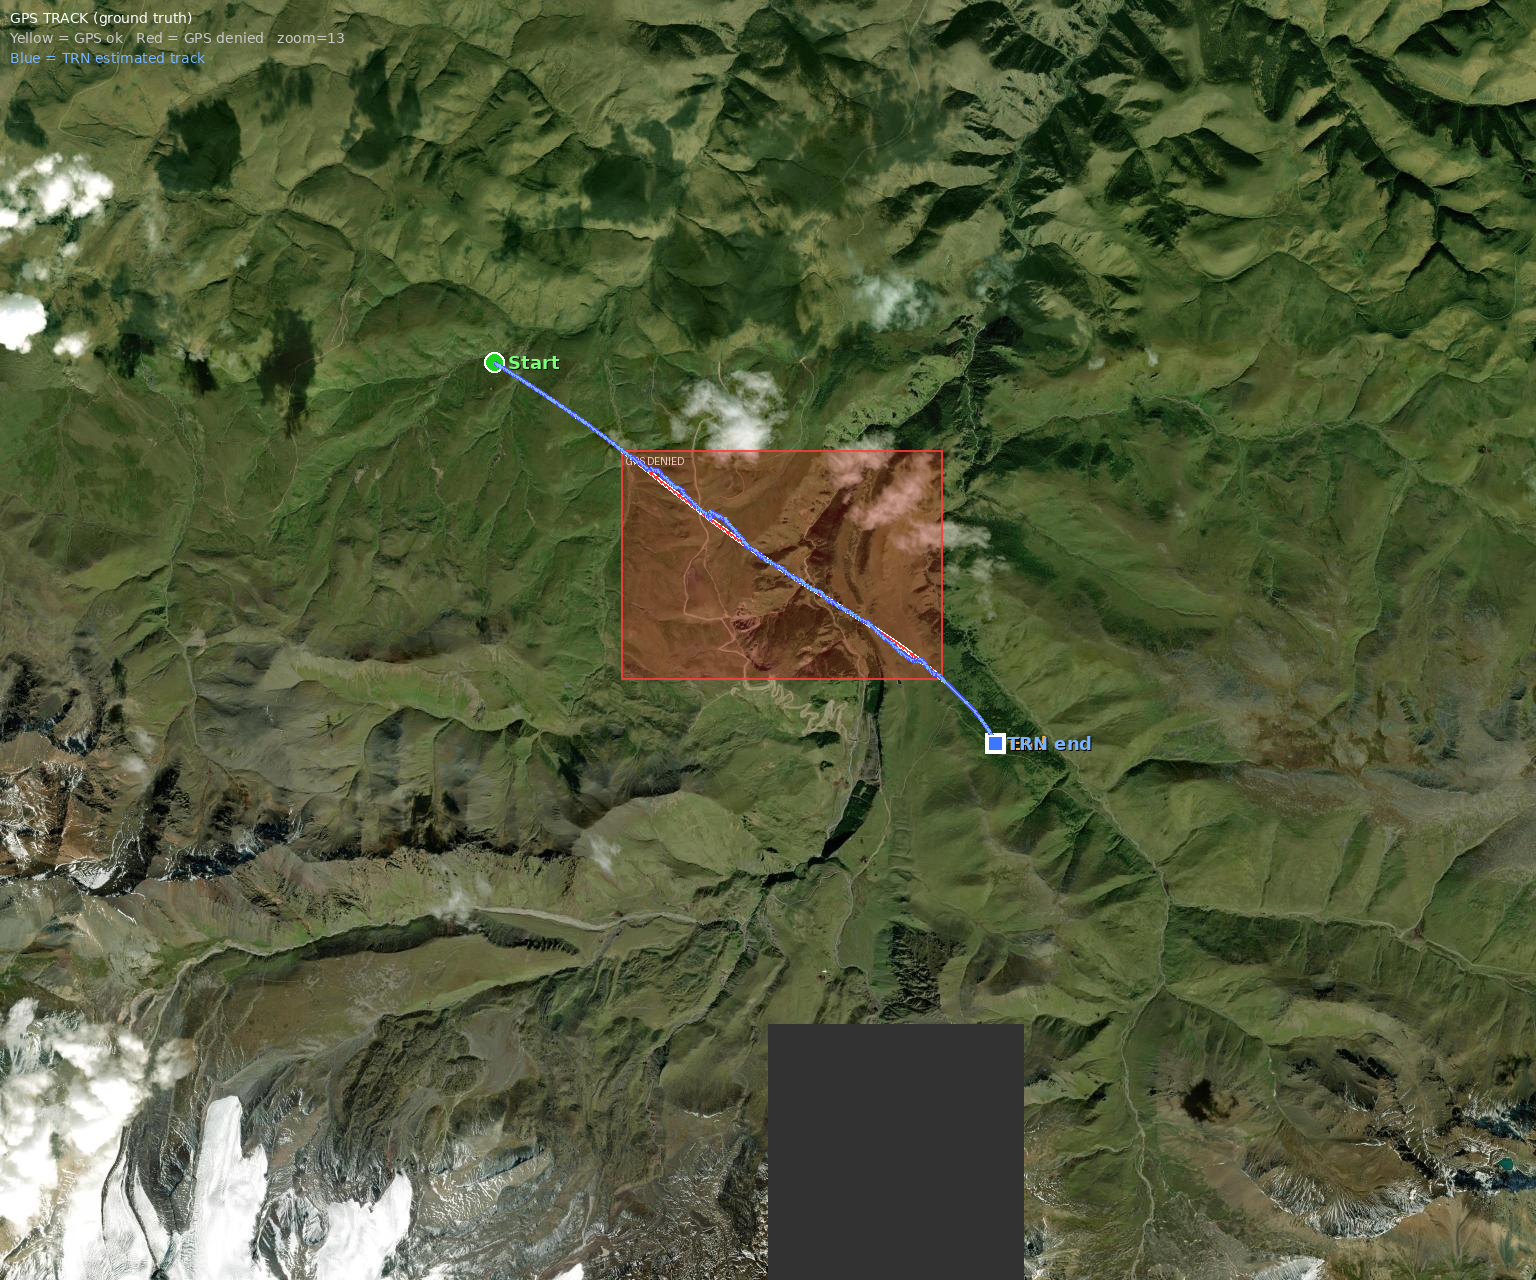
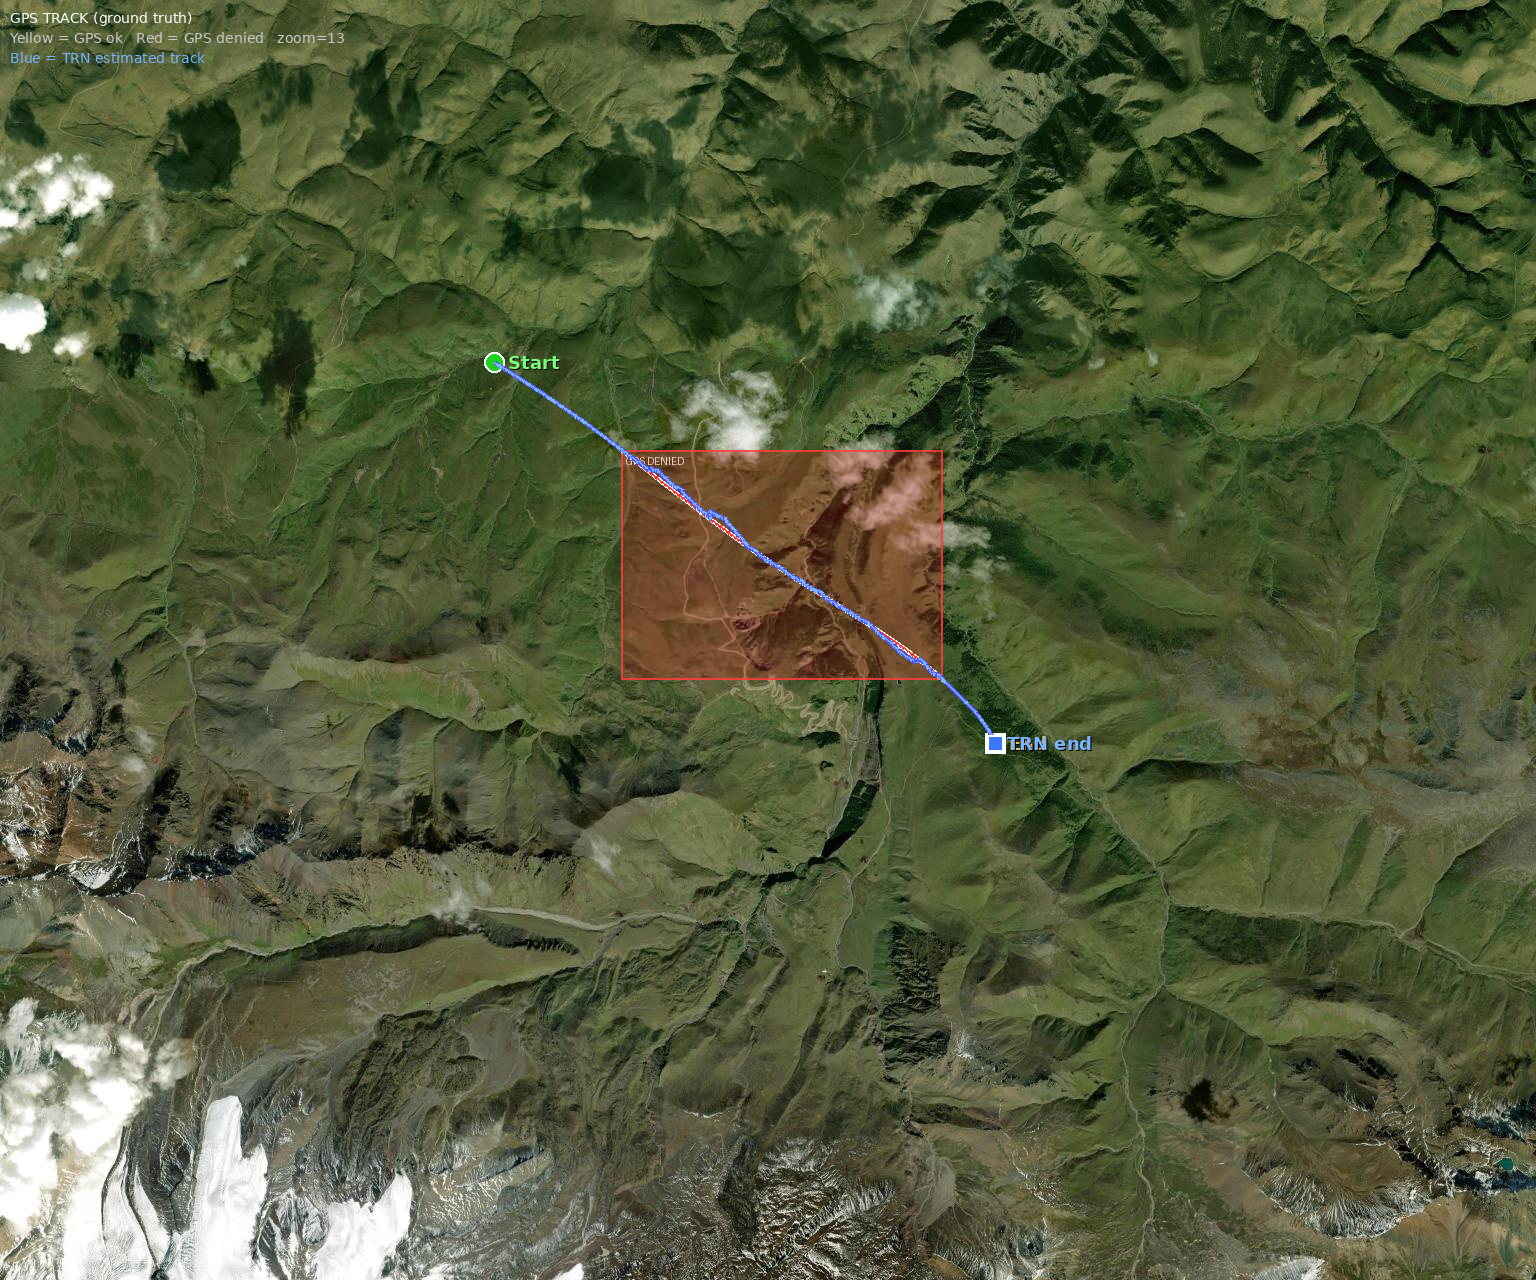
Stage 8: EMA smoothing of PF output in flat-terrain mode
In flat-terrain (guided DR) mode the particle filter output position is
blended with the previous smoothed position via exponential moving average
(alpha=0.45): pos[i] = 0.45*PF_est + 0.55*pos[i-1].  This uses the
already-estimated trajectory to stabilise future points, suppressing
step-to-step noise without introducing lookahead lag.  Mountain mode
(active_cpf_sigma == cfg.cpf_sigma) is unaffected.

Changed region(s): [[0.5, 0.7812, 0.6875, 1.0]]

diff --git a/src/main.cpp b/src/main.cpp
@@ -735,8 +735,26 @@ static int run_combined(const Config& cfg, const DemData& dem,
             }
             auto est = cpf->step(fix.radio_alt_m, cfg.baro_alt_m, dt_s,
                                  active_hdg_noise, 1.0, active_cpf_sigma);
-            tp.lat         = est.lat;
-            tp.lon         = est.lon;
+
+            // In flat terrain mode apply EMA using the accumulated estimated track:
+            // each output position is a blend of the current PF estimate and the
+            // previous smoothed position, so the already-guessed trajectory
+            // stabilises future outputs rather than letting PF noise accumulate.
+            if (active_cpf_sigma > cfg.cpf_sigma) {  // flat mode flag
+                constexpr double EMA_ALPHA = 0.45;
+                if (trajectory.empty() || !trajectory.back().gps_denied) {
+                    // First denied step — seed smoother at last GPS fix
+                    tp.lat = est.lat;
+                    tp.lon = est.lon;
+                } else {
+                    const auto& prev = trajectory.back();
+                    tp.lat = EMA_ALPHA * est.lat + (1.0 - EMA_ALPHA) * prev.lat;
+                    tp.lon = EMA_ALPHA * est.lon + (1.0 - EMA_ALPHA) * prev.lon;
+                }
+            } else {
+                tp.lat = est.lat;
+                tp.lon = est.lon;
+            }
             tp.heading_deg = est.heading_deg;
             tp.speed_mps   = est.speed_mps;
             tp.ncc         = est.neff / cfg.cpf_n;